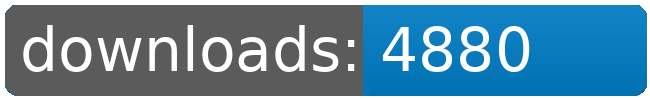
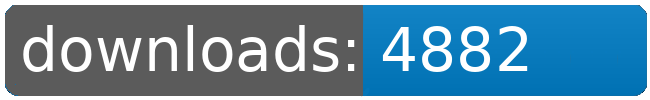
dl log written

Changed region(s): [[0.7692, 0.24, 0.8308, 0.72]]

diff --git a/README.md b/README.md
@@ -43,8 +43,8 @@
 		<td>4821</td>
 		<td>4847</td>
 		<td>4870</td>
-		<td>4880</td>
-		<td>+ 10</td>
+		<td>4882</td>
+		<td>+ 12</td>
 	</tr>
 	<tr>
 		<td>Jaws</td>
@@ -76,8 +76,8 @@
 		<td>4343</td>
 		<td>4368</td>
 		<td>4391</td>
-		<td>4400</td>
-		<td>+ 9</td>
+		<td>4402</td>
+		<td>+ 11</td>
 	</tr>
 	<tr>
 		<td>Solar.Sails</td>
@@ -109,8 +109,8 @@
 		<td></td>
 		<td></td>
 		<td></td>
-		<td>32419</td>
-		<td>65</td>
+		<td>32423</td>
+		<td>69</td>
 	</tr>
 </table>
 </sub></sup>
@@ -135,8 +135,8 @@
 		<td>4821</td>
 		<td>4847</td>
 		<td>4870</td>
-		<td>4880</td>
-		<td>+ 10</td>
+		<td>4882</td>
+		<td>+ 12</td>
 	</tr>
 	<tr>
 		<td>Louise.Conglomerate.Shipyards</td>
@@ -146,8 +146,8 @@
 		<td>4343</td>
 		<td>4368</td>
 		<td>4391</td>
-		<td>4400</td>
-		<td>+ 9</td>
+		<td>4402</td>
+		<td>+ 11</td>
 	</tr>
 	<tr>
 		<td>Korunak.Defense.Drones</td>
@@ -223,8 +223,8 @@
 		<td></td>
 		<td></td>
 		<td></td>
-		<td>32419</td>
-		<td>65</td>
+		<td>32423</td>
+		<td>69</td>
 	</tr>
 </table>
 </sub></sup>
